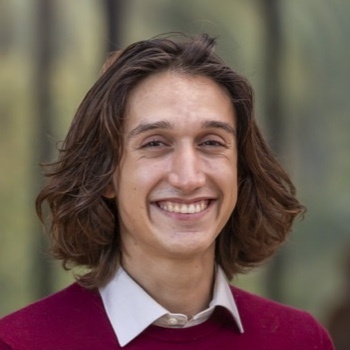
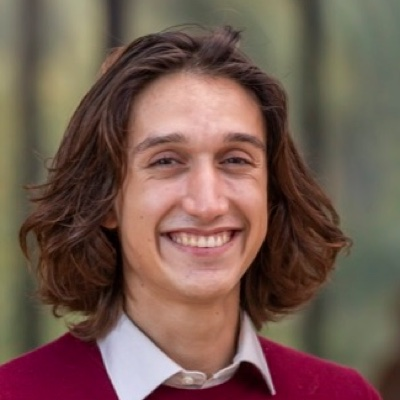
Add Vicki Ballagh and Samantha Bennett and redo the People layout
Each group is now a row with its heading on the left and people on a
shared four-column grid, so photos line up across groups. Predocs join
the new Lab Members group, portraits are recropped to a common eyeline,
Rob's photo is replaced, and role lines are trimmed to the position only.

diff --git a/assets/css/style.css b/assets/css/style.css
@@ -477,102 +477,103 @@ nav#top-nav {
 
 /* ---------- People ---------- */
 
+/* Every group is a row of one shared grid: its heading in a narrow left
+   column, its people across four equal columns to the right. Because every
+   row uses the same four columns, a photo in one group sits directly above
+   the matching photo in the next, however many people each group has — a
+   two-person row reads as half full rather than as a different layout. */
+.people-group {
+  display: grid;
+  grid-template-columns: 9.5rem 1fr;
+  gap: 0 1.75rem;
+  padding: 2rem 0 2.25rem;
+  border-top: 1px solid var(--rule);
+}
+
+.people-group:last-child {
+  padding-bottom: 0;
+}
+
 .group-heading {
   font-family: var(--font-display);
   font-weight: 500;
-  font-size: 1.3rem;
+  font-size: 1.2rem;
+  line-height: 1.3;
   letter-spacing: -0.01em;
-  margin: 2.75rem 0 1.5rem;
-  padding-bottom: 0.5rem;
-  border-bottom: 1px solid var(--rule);
+  margin: 0;
+  /* Optically level with the top of the first row of photos. */
+  padding-top: 0.15rem;
 }
 
-/* Each group is a cell: full-width groups take a whole row, and the rest pair
-   up two to a row. Two cards plus their gap is 456px, so a pair needs ~952px
-   of content width; below that, see the 1000px query, which stacks them. */
-.people-groups {
-  display: grid;
-  grid-template-columns: 1fr 1fr;
-  gap: 2.75rem 2.5rem;
-}
-
-.people-group-full {
-  grid-column: 1 / -1;
-}
-
-.people-group .group-heading {
-  margin-top: 0;
-}
-
-/* A flex row rather than a grid: group sizes here are small and uneven (two
-   co-directors, three members), and a grid would stretch a lone person to the
-   full width. Flex keeps every card in a group the same size wherever it
-   lands; the width itself is per-group, set below. */
 .people-grid {
-  display: flex;
-  flex-wrap: wrap;
-  gap: 2.5rem 1.5rem;
+  display: grid;
+  grid-template-columns: repeat(4, minmax(0, 1fr));
+  gap: 2.25rem 1.25rem;
   list-style: none;
   margin: 0;
   padding: 0;
 }
 
-/* 216px fits "Dr. Kavya Ravichandran" on one line, so postdoc names don't
-   wrap and leave the role lines in a row out of step. */
-.person {
-  flex: 0 0 216px;
-  max-width: 100%;
-  text-align: center;
-}
-
-/* The co-directors' role line is a full endowed chair — "McGregor-Girand
-   Professor of Social Ethics of Science and Technology" wraps to four lines in
-   a 200px card and leaves the two cards badly uneven. Widening just this group
-   brings it down to two. `max-width: 100%` above still applies, so on a phone
-   the card shrinks to the screen and the pair stacks one per row rather than
-   overflowing. */
-.people-grid-faculty {
-  justify-content: center;
-}
-
+/* The co-directors take two columns each with the photo beside the text: the
+   pair fills the row the others share, and a full endowed chair gets the
+   width to set in two lines instead of four. */
 .people-grid-faculty .person {
-  flex-basis: 300px;
+  grid-column: span 2;
 }
 
-/* The whole card is the link target, not just the name, so the photo is
-   clickable too and the hover state has something to fill. `.person-card` is
-   the same box whether it renders as an <a> or a <div>, so a person without a
-   URL sits flush with the rest of the row. */
+.people-grid-faculty .person-card {
+  display: grid;
+  grid-template-columns: auto 1fr;
+  grid-template-rows: 1fr auto auto 1fr;
+  column-gap: 1.25rem;
+}
+
+.people-grid-faculty .avatar {
+  grid-row: 1 / -1;
+  margin: 0;
+}
+
+.people-grid-faculty .person-name {
+  grid-row: 2;
+}
+
+.people-grid-faculty .person-role {
+  grid-row: 3;
+}
+
+/* With a `url` the card is an <a>, otherwise a <div>; both are the same box,
+   so a person without a link still sits flush with the rest of the row. */
 .person-card {
   display: block;
-  padding: 1rem 0.75rem 1.25rem;
-  border-radius: 8px;
   color: inherit;
-  transition: background-color 0.15s ease;
 }
 
 a.person-card:hover,
 a.person-card:focus-visible {
-  background: var(--cardinal-tint);
   text-decoration: none;
 }
 
-a.person-card:hover .person-name {
+a.person-card:hover .person-name,
+a.person-card:focus-visible .person-name {
   color: var(--cardinal);
+  text-decoration: underline;
+  text-decoration-thickness: 1px;
+  text-underline-offset: 0.18em;
 }
 
+/* Portraits are pre-cropped so every pair of eyes falls 40% down the frame
+   (see `photo` in _data/people.yml); the circle shows the whole frame, so
+   eyelines run level across a row. */
 .avatar {
   display: block;
-  width: 132px;
-  height: 132px;
+  width: 120px;
+  height: 120px;
   border-radius: 50%;
   background: var(--cardinal-tint);
-  margin: 0 auto 0.9rem;
+  margin: 0 0 0.9rem;
   overflow: hidden;
 }
 
-/* The avatar's own tint is the hover color, so give it a ring to stay legible
-   once the card behind it turns the same shade. */
 a.person-card:hover .avatar {
   box-shadow: 0 0 0 2px var(--cardinal);
 }
@@ -581,12 +582,7 @@ a.person-card:hover .avatar {
   width: 100%;
   height: 100%;
   object-fit: cover;
-  object-position: center center;
   display: block;
-}
-
-.avatar img.pos-top {
-  object-position: center 28%;
 }
 
 .person-name {
@@ -601,7 +597,8 @@ a.person-card:hover .avatar {
   display: block;
   color: var(--ink-soft);
   font-size: 0.88rem;
-  margin-top: 0.2rem;
+  line-height: 1.45;
+  margin-top: 0.25rem;
 }
 
 /* ---------- Substack ---------- */
@@ -1363,9 +1360,12 @@ footer {
 /* Too narrow for the calendars beside the list: they follow it, side by side
    while there is room, stacked on a phone. The list comes first so the next
    events are on screen without scrolling past two months of grid. */
-@media (max-width: 1000px) {
-  .people-groups {
+/* The heading moves above its row once the left column would squeeze the
+   four photo columns below a card's width. */
+@media (max-width: 900px) {
+  .people-group {
     grid-template-columns: 1fr;
+    gap: 1.25rem;
   }
 }
 
@@ -1389,12 +1389,15 @@ footer {
   }
 
   .people-grid {
+    grid-template-columns: repeat(2, minmax(0, 1fr));
     gap: 2rem 1.25rem;
-    justify-content: center;
   }
 
-  .person {
-    flex-basis: calc(50% - 0.625rem);
+  /* Two columns is the whole row on a phone, so each co-director keeps the
+     photo-beside-text card on a line of their own. */
+  .avatar {
+    width: 104px;
+    height: 104px;
   }
 
   .news-item {

diff --git a/index.html b/index.html
@@ -54,15 +54,14 @@ title: AI Governance Lab
       group is alphabetized by the `last_name` field rather than by the order
       of the data file, so adding someone never means resorting it by hand —
       except where the group sets `order: listed`, which is for sections whose
-      order is a deliberate choice rather than a convention. Groups marked
-      `width: full` take a whole row; the rest sit two to a row on desktop.
+      order is a deliberate choice rather than a convention.
     {%- endcomment -%}
     <div class="people-groups">
     {%- for group in site.data.people_groups %}
       {%- assign members = site.data.people | where: "group", group.id %}
       {%- unless group.order == "listed" %}{% assign members = members | sort: "last_name" %}{% endunless %}
       {%- if members.size > 0 %}
-    <div class="people-group{% if group.width == 'full' %} people-group-full{% endif %}">
+    <div class="people-group">
     <h3 class="group-heading">{{ group.heading }}</h3>
     <ul class="people-grid people-grid-{{ group.id }}">
       {%- for person in members %}
@@ -74,7 +73,7 @@ title: AI Governance Lab
         {%- if person.url %}<a class="person-card" href="{{ person.url }}" target="_blank" rel="noopener">{% else %}<div class="person-card">{% endif %}
           <span class="avatar">
             {%- if person.photo %}
-            <img{% if person.photo_position == 'top' %} class="pos-top"{% endif %} src="{{ '/assets/img/' | append: person.photo | relative_url }}" alt="" loading="lazy" width="132" height="132" />
+            <img src="{{ '/assets/img/' | append: person.photo | relative_url }}" alt="" loading="lazy" width="120" height="120" />
             {%- endif %}
           </span>
           <span class="person-name">{{ person.name | escape }}</span>
